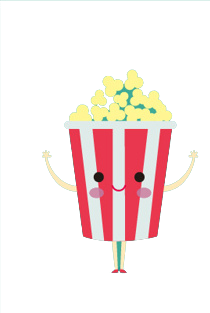
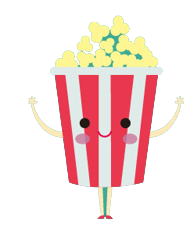
changing the photos of the 2nd section

Changed region(s): [[0.1224, 0.0576, 0.949, 0.9218], [0.0, 0.0, 1.0, 0.0288]]

diff --git a/css/samar.css b/css/samar.css
@@ -2,6 +2,7 @@
     width:100%;
     margin-right:0;
     margin-left:0;
+    margin-top:70px;
 }
 
 #photoSec{
@@ -41,6 +42,7 @@
 #photoSec form{
     display: flex;
     justify-content: center;
+    padding-bottom:20px;
 }
 
 .forSmaller{
@@ -49,19 +51,18 @@
 }
 
 #need{
-    background-image: url('../img/skyblue.png');
-    background-position: center;
-    background-repeat: no-repeat;
-    background-size: contain;
     background-color: #44318d;
     height:100%;
     margin: 0 auto;
     text-align: center;
-    padding: 3% 4% 15%;
+    padding: 70px 4% 20px;
     font-weight: bold;
     color: white;
 }
 
+#need img{
+    width:170px;
+}
 #need h2{
     font-size:1.7em;
 }

diff --git a/index.html b/index.html
@@ -41,6 +41,7 @@
         <h2>What are the worst movies ever?</h2>
         <p>We don't share solid facts, but opinions for fun! so, don't feel so angry if you found your favorite movie.
         </p>
+        <img src="./img/1.png"> <img src="./img/4.png">
     </section>
    
     <section id="photoSec">

diff --git a/css/responsive.css b/css/responsive.css
@@ -16,9 +16,8 @@
         width:90%;
     }
 
-    #need{
-        background-size: cover;
-        font-size: 80%;
+    #need img{
+        width:120px;
     }
 
 
